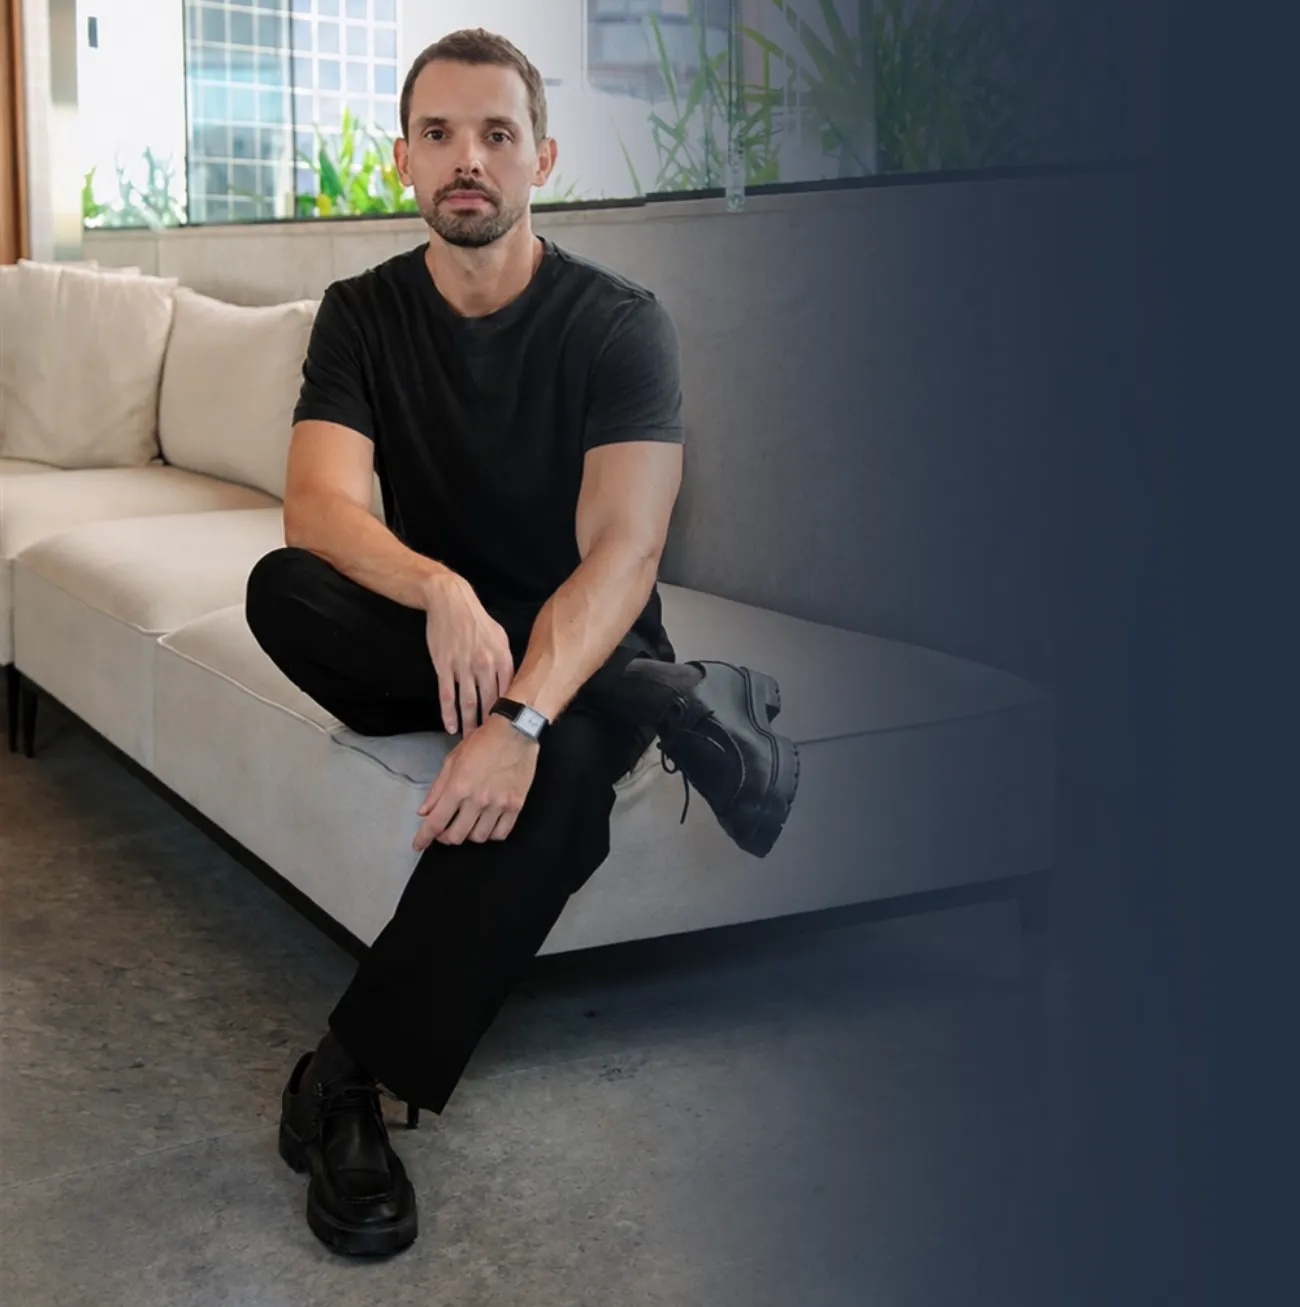
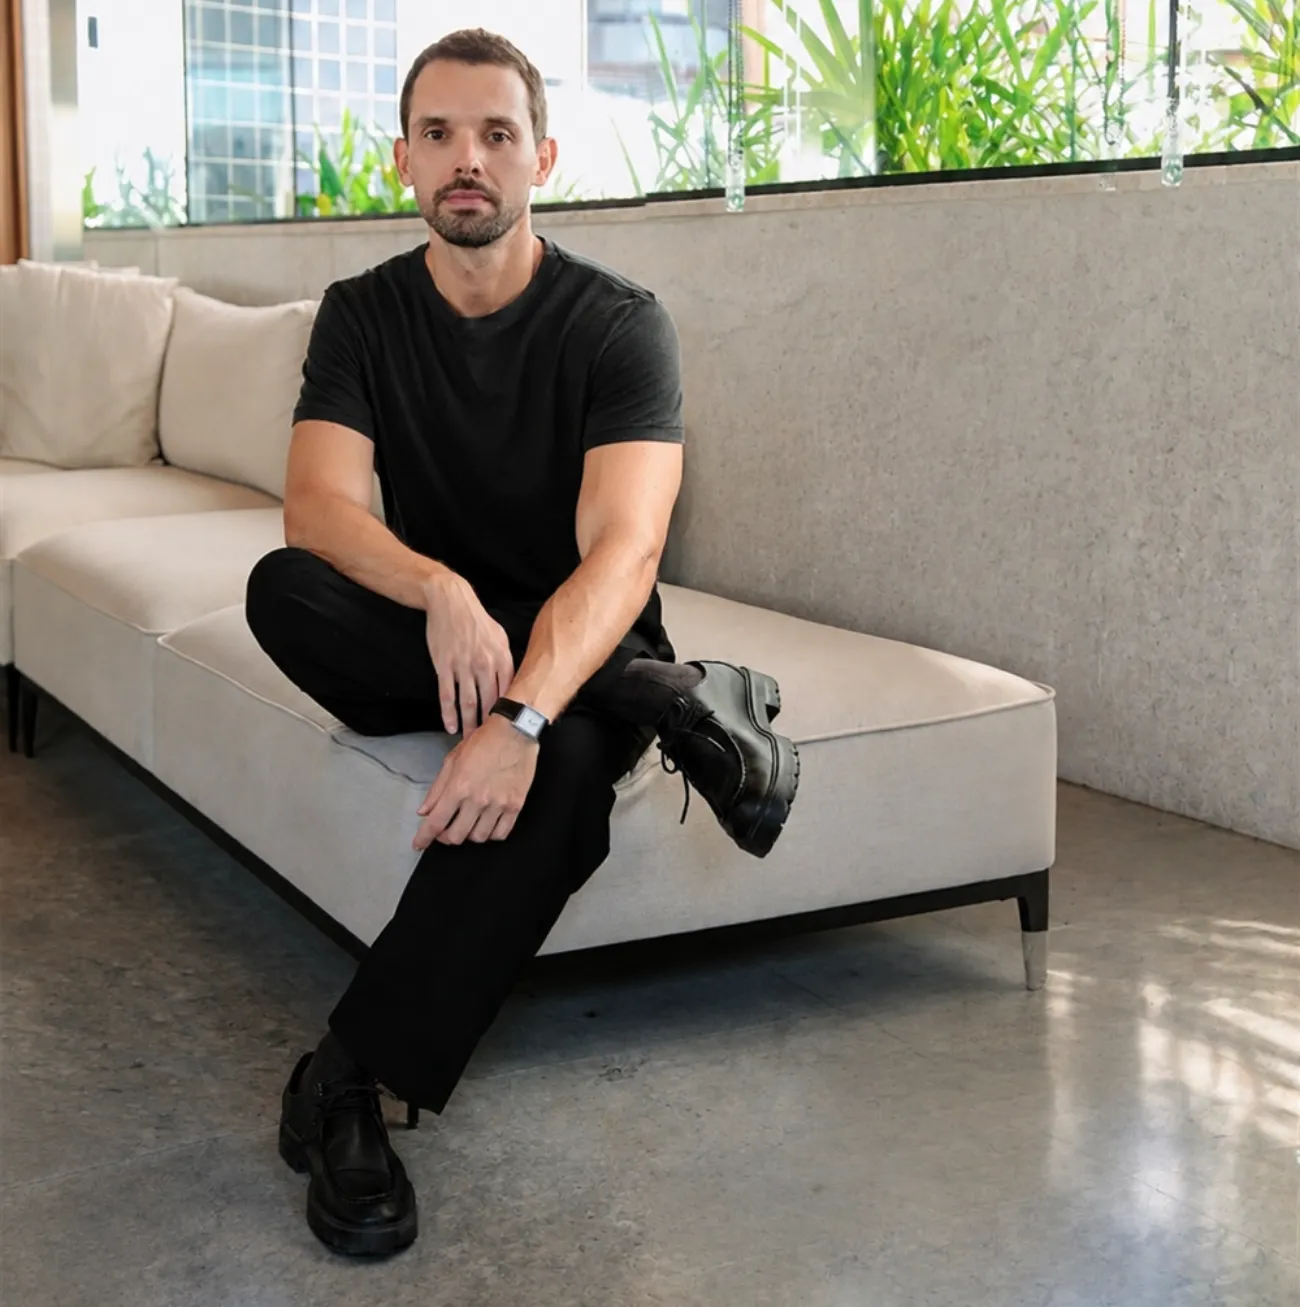
feat: words light up on scroll, light running on connectors, giant step numbers
- Body paragraphs (not titles or the hero) start dimmed and light up word by
  word as you scroll, dimming again when scrolling back up.
- Points of light run continuously along each factor connector into
  "Sua estratégia".
- "Como funciona" without cards: giant outlined cyan numbers next to each
  step, uppercase titles and loose text.
- New hero photo, with the right side darkened so the credentials stay legible.

diff --git a/src/components/common/ScrollReading.tsx b/src/components/common/ScrollReading.tsx
@@ -1,0 +1,103 @@
+'use client';
+
+import { useEffect } from 'react';
+
+const SELECTOR = '[data-read] p, p[data-read]';
+const START = 0.9; // o parágrafo começa a acender quando o topo chega a 90% da tela
+const END = 0.6; // e termina de acender quando o fim chega a 60% da tela
+
+// Texto que acende palavra por palavra conforme a pessoa rola: os parágrafos
+// marcados com data-read (neles ou num pai) começam apagados e cada palavra
+// acende no ritmo da rolagem; rolando para cima, elas apagam de novo. Só os
+// textos corridos usam isso, os títulos ficam parados. Com "reduzir movimento"
+// ou sem JavaScript, o texto aparece normal.
+export default function ScrollReading() {
+  useEffect(() => {
+    if (window.matchMedia('(prefers-reduced-motion: reduce)').matches) return;
+
+    type Para = { el: HTMLElement; words: HTMLElement[]; lit: number };
+    const paras: Para[] = [];
+    const done = new WeakSet<Element>();
+
+    // Quebra só os nós de texto em palavras, mantendo <strong> e afins
+    const split = (p: HTMLElement) => {
+      const words: HTMLElement[] = [];
+      const walker = document.createTreeWalker(p, NodeFilter.SHOW_TEXT);
+      const texts: Text[] = [];
+      while (walker.nextNode()) texts.push(walker.currentNode as Text);
+      texts.forEach((node) => {
+        const frag = document.createDocumentFragment();
+        node.data.split(/(\s+)/).forEach((part) => {
+          if (!part) return;
+          if (/^\s+$/.test(part)) {
+            frag.appendChild(document.createTextNode(part));
+          } else {
+            const span = document.createElement('span');
+            span.className = 'read-word';
+            span.textContent = part;
+            frag.appendChild(span);
+            words.push(span);
+          }
+        });
+        node.replaceWith(frag);
+      });
+      return words;
+    };
+
+    const collect = () => {
+      document.querySelectorAll<HTMLElement>(SELECTOR).forEach((p) => {
+        if (done.has(p)) return;
+        done.add(p);
+        paras.push({ el: p, words: split(p), lit: 0 });
+      });
+    };
+
+    let raf = 0;
+    const update = () => {
+      raf = 0;
+      const vh = window.innerHeight;
+      for (let k = paras.length - 1; k >= 0; k--) {
+        const para = paras[k];
+        if (!para.el.isConnected) {
+          paras.splice(k, 1);
+          continue;
+        }
+        const r = para.el.getBoundingClientRect();
+        if (r.bottom < -vh || r.top > vh * 2) continue;
+        const from = vh * START;
+        const to = vh * END - r.height;
+        const progress = Math.min(1, Math.max(0, (from - r.top) / (from - to)));
+        const lit = Math.round(progress * para.words.length);
+        if (lit === para.lit) continue;
+        para.words.forEach((w, i) => {
+          if (i < lit !== i < para.lit) w.classList.toggle('is-lit', i < lit);
+        });
+        para.lit = lit;
+      }
+    };
+    const schedule = () => {
+      if (!raf) raf = requestAnimationFrame(update);
+    };
+
+    collect();
+    update();
+
+    // Seções que remontam o conteúdo (ex.: a do Icaro, fixa no desktop) trazem parágrafos novos
+    const mo = new MutationObserver(() => {
+      collect();
+      schedule();
+    });
+    mo.observe(document.querySelector('main') ?? document.body, { childList: true, subtree: true });
+    window.addEventListener('scroll', schedule, { passive: true });
+    window.addEventListener('resize', schedule);
+
+    return () => {
+      cancelAnimationFrame(raf);
+      mo.disconnect();
+      window.removeEventListener('scroll', schedule);
+      window.removeEventListener('resize', schedule);
+    };
+  }, []);
+
+  return null;
+}

diff --git a/src/components/sections/StructureSection.tsx b/src/components/sections/StructureSection.tsx
@@ -47,15 +47,22 @@ export default function StructureSection() {
           </div>
         </div>
 
-        <ol className="lg:col-span-7 relative border-l border-dashed border-white/30 ml-5 pl-10 sm:pl-14 flex flex-col gap-6">
+        {/* Etapas soltas, sem cards: número gigante vazado em ciano ao lado de cada uma */}
+        <ol className="lg:col-span-7 flex flex-col gap-12 md:gap-16">
           {steps.map((step, i) => (
-            <li key={step.title} className="relative group">
-              <span className="absolute -left-[3.75rem] sm:-left-[4.75rem] top-6 grid place-items-center w-10 h-10 bg-canvas border border-white font-display text-lg font-extrabold text-white group-hover:bg-cyan group-hover:border-cyan group-hover:text-ink transition-colors">
+            <li key={step.title} className="group grid grid-cols-[auto_1fr] gap-x-5 md:gap-x-8">
+              <span
+                aria-hidden="true"
+                className="font-display font-extrabold leading-[0.8] text-[4.5rem] md:text-[7.5rem] text-transparent [-webkit-text-stroke:2px_#00B9CF] transition-colors duration-500 group-hover:text-cyan"
+              >
                 {String(i + 1).padStart(2, '0')}
               </span>
-              <div className="bg-surface/80 p-6 md:p-8 border-t-2 border-transparent group-hover:border-cyan transition-colors">
-                <h3 className="text-2xl md:text-3xl mb-4">{step.title}</h3>
-                <div className="space-y-3 text-text-secondary leading-relaxed">
+              <div className="pt-1 md:pt-2">
+                <h3 className="text-2xl md:text-3xl mb-4">
+                  <span className="sr-only">Etapa {i + 1}: </span>
+                  {step.title}
+                </h3>
+                <div data-read className="space-y-3 text-lg text-text-secondary leading-relaxed">
                   {step.paragraphs.map((p) => (
                     <p key={p}>{p}</p>
                   ))}

diff --git a/src/components/sections/GenericDietSection.tsx b/src/components/sections/GenericDietSection.tsx
@@ -12,7 +12,7 @@ export default function GenericDietSection() {
             <span className="underline-cyan">Precisa saber o que fazer com ela.</span>
           </h2>
 
-          <div className="lg:col-span-6 space-y-6 text-lg text-text-secondary leading-relaxed">
+          <div data-read className="lg:col-span-6 space-y-6 text-lg text-text-secondary leading-relaxed">
             <p>
               Hoje, qualquer pessoa consegue pedir uma dieta à inteligência artificial. E talvez você já tenha uma boa noção do que precisa comer para emagrecer ou ganhar massa muscular.
             </p>
@@ -37,7 +37,7 @@ export default function GenericDietSection() {
           <ConvergenceDiagram />
         </div>
 
-        <p className="mt-12 md:mt-16 mx-auto max-w-4xl text-center font-display text-2xl md:text-4xl font-bold uppercase tracking-tight leading-tight">
+        <p data-read className="mt-12 md:mt-16 mx-auto max-w-4xl text-center font-display text-2xl md:text-4xl font-bold uppercase tracking-tight leading-tight">
           Esses fatores não são avaliados apenas na primeira consulta.{' '}
           <span className="text-cyan">Eles orientam cada ajuste ao longo do seu acompanhamento.</span>
         </p>

diff --git a/src/components/common/ConvergenceDiagram.tsx b/src/components/common/ConvergenceDiagram.tsx
@@ -95,6 +95,22 @@ export default function ConvergenceDiagram() {
                   transitionDelay: lit && !settled ? `${i * 120}ms` : '0ms',
                 }}
               />
+              {/* Ponto de luz que corre sem parar do fator até "Sua estratégia" */}
+              {settled && (
+                <path
+                  d={d}
+                  fill="none"
+                  pathLength={1}
+                  strokeDasharray="0.07 0.93"
+                  strokeLinecap="round"
+                  vectorEffect="non-scaling-stroke"
+                  strokeWidth={active ? 5 : 3.5}
+                  stroke="#E5FBFD"
+                  strokeOpacity={anyHover && !active ? 0.15 : 0.95}
+                  className="conn-light"
+                  style={{ animationDelay: `${-((i * 0.37) % 1) * 2.4}s` }}
+                />
+              )}
             </g>
           );
         })}

diff --git a/src/app/globals.css b/src/app/globals.css
@@ -136,6 +136,26 @@
   from { opacity: 0; translate: 30% 30%; }
 }
 
+/* Luz correndo pelos conectores dos fatores (ConvergenceDiagram) */
+.conn-light {
+  animation: conn-light 2.4s cubic-bezier(0.45, 0, 0.55, 1) infinite;
+  filter: drop-shadow(0 0 3px #00b9cf);
+}
+
+@keyframes conn-light {
+  from { stroke-dashoffset: 0.07; }
+  to { stroke-dashoffset: -0.93; }
+}
+
+/* Texto que acende palavra por palavra com a rolagem (ScrollReading) */
+.read-word {
+  opacity: 0.18;
+  transition: opacity 0.35s ease;
+}
+.read-word.is-lit {
+  opacity: 1;
+}
+
 @keyframes typing-dot {
   0%, 60%, 100% { opacity: 0.25; transform: translateY(0); }
   30% { opacity: 1; transform: translateY(-3px); }

diff --git a/src/components/sections/ScienceSection.tsx b/src/components/sections/ScienceSection.tsx
@@ -33,7 +33,7 @@ export default function ScienceSection() {
           <h2 className="lg:col-span-6">
             A mesma ciência. <span className="highlight">Diferentes objetivos.</span>
           </h2>
-          <div className="lg:col-span-6 space-y-6 text-lg text-text-secondary leading-relaxed">
+          <div data-read className="lg:col-span-6 space-y-6 text-lg text-text-secondary leading-relaxed">
             <p>
               A experiência que construí acompanhando atletas de alto rendimento também orienta meu trabalho com pessoas que desejam emagrecer, ganhar massa muscular ou cuidar melhor da saúde.
             </p>

diff --git a/src/components/common/HeroPhoto.tsx b/src/components/common/HeroPhoto.tsx
@@ -25,6 +25,11 @@ export default function HeroPhoto({ priority = false, sizes }: Props) {
           className="object-cover object-left"
         />
       </div>
+      {/* Escurece o lado direito para as credenciais ficarem legíveis em qualquer foto */}
+      <div
+        aria-hidden="true"
+        className="absolute inset-0 bg-[linear-gradient(to_left,rgba(11,24,30,0.94)_0%,rgba(11,24,30,0.82)_38%,rgba(11,24,30,0.3)_62%,transparent_78%)]"
+      />
       <div
         aria-hidden="true"
         className="absolute inset-0 bg-[radial-gradient(circle_at_82%_38%,rgba(0,185,207,0.22),transparent_50%)]"

diff --git a/src/app/page.tsx b/src/app/page.tsx
@@ -13,6 +13,7 @@ import FaqSection from '@/components/sections/FaqSection';
 import ScrollTape from '@/components/common/ScrollTape';
 import MobileWhatsAppBar from '@/components/common/MobileWhatsAppBar';
 import ImmersiveBackdrop from '@/components/common/ImmersiveBackdrop';
+import ScrollReading from '@/components/common/ScrollReading';
 
 export default function Home() {
   return (
@@ -40,6 +41,7 @@ export default function Home() {
       <Footer />
       <MobileWhatsAppBar />
       <ScrollTape />
+      <ScrollReading />
     </>
   );
 }

diff --git a/src/components/sections/FaqSection.tsx b/src/components/sections/FaqSection.tsx
@@ -23,7 +23,7 @@ export default function FaqSection() {
         <div className="grid lg:grid-cols-12 gap-x-12 gap-y-10 items-start">
         <div className="lg:col-span-4 lg:sticky lg:top-28">
           <h2 className="mb-8">Dúvidas frequentes</h2>
-          <p className="text-lg text-text-secondary leading-relaxed mb-8 max-w-sm">
+          <p data-read className="text-lg text-text-secondary leading-relaxed mb-8 max-w-sm">
             Não encontrou a sua dúvida? Pergunte direto para mim pelo WhatsApp.
           </p>
           <a

diff --git a/src/components/sections/LocationSection.tsx b/src/components/sections/LocationSection.tsx
@@ -13,7 +13,7 @@ export default function LocationSection() {
             Um espaço pensado para cuidar da{' '}
             <span className="highlight">sua evolução.</span>
           </h2>
-          <div className="lg:col-span-5 space-y-5 text-lg text-text-secondary leading-relaxed">
+          <div data-read className="lg:col-span-5 space-y-5 text-lg text-text-secondary leading-relaxed">
             <p>
               Seu atendimento acontece presencialmente na Academia Gaviões, na Pajuçara, em Maceió.
             </p>

diff --git a/src/components/sections/ScaleSection.tsx b/src/components/sections/ScaleSection.tsx
@@ -14,7 +14,7 @@ export default function ScaleSection() {
           </h2>
 
           <div className="lg:col-span-6">
-            <div className="space-y-6 text-lg text-text-secondary leading-relaxed">
+            <div data-read className="space-y-6 text-lg text-text-secondary leading-relaxed">
               <p>
                 Duas pessoas com o mesmo peso podem apresentar composições corporais completamente diferentes. E nem toda evolução aparece na balança.
               </p>
